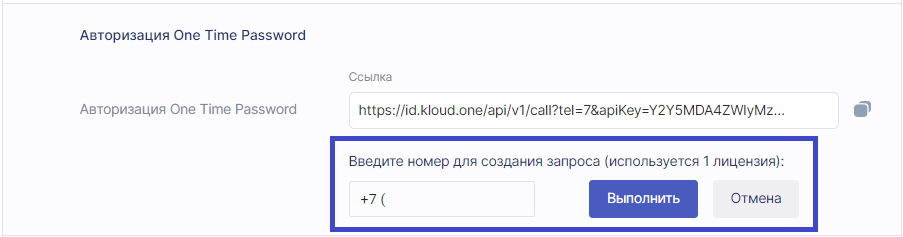
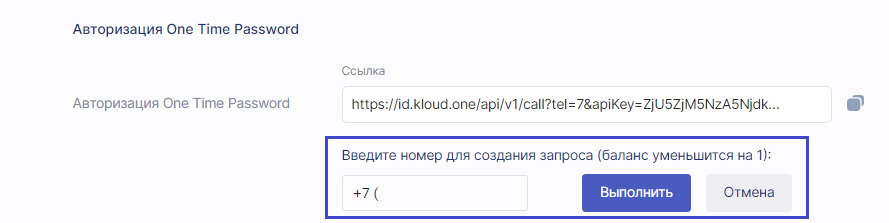
desc

diff --git a/content/03-ver.1.8/3-work_with_product_calling/08-settings_apps_od.md b/content/03-ver.1.8/3-work_with_product_calling/08-settings_apps_od.md
@@ -4,7 +4,7 @@ title: "Вкладка Настройки ОД в Личном кабинете"
 sort: "08"
 ---
 
-**Обзвон должников** или **ОД** является одним из модулей платформы Kloud.One, отвечающий за автоматическое информирование абонентов о задолженности перед организацией, а также рекомендации о ее погашении.
+**Обзвон должников** или **ОД** является одним из приложений платформы Kloud.One, отвечающий за автоматическое информирование абонентов о задолженности перед организацией, а также рекомендации о ее погашении.
 
 ![Картинка](./images_od/settings_ad_main.png "Модальное окно Настройки автообзвона по умолчанию")
 
@@ -20,8 +20,7 @@ sort: "08"
 ### Поле Часовой пояс
 
 Поле Часовой пояс отвечает за время начала автообзвона должников. При изменении часового пояса, время начала автообзвона ставится по тому часовому поясу, который выбран в настройках.  
-🛈 Параметр связан с **временем начала** автообзвона в модуле **ОД**.  
-🛈 После изменения этого параметра рекомендуем ненадолго ~1 минута включить и выключить модуль ОД.  
+🛈 Параметр связан с **временем начала** автообзвона в приложении **ОД**.  
 🛈 После регистрации нового клиента этот параметр по умолчанию равен **GMT+03.00 Москва**.
 
 ![Картинка](./images_od/settings_ad_time_zone.png "Поле Часовой пояс")
@@ -85,7 +84,7 @@ sort: "08"
 
 ### Выпадающий список Голос Автоответчика
 
-В модуле ОД имеется 5 голосов для автоответчика:  **Jane**, **Oksana**, **Omazh**, **Zahar**, **Ermil**.  
+В приложении ОД имеется 5 голосов для автоответчика:  **Jane**, **Oksana**, **Omazh**, **Zahar**, **Ermil**.  
 Голоса отличаются по полу, тембру и скорости произнесения речи.  
 🛈 По умолчанию стоит голос **oksana**. 
 
@@ -139,8 +138,8 @@ sort: "08"
 ### Кнопка Активировать
 
 При нажатии на кнопку **Активировать**, автообзвон должников запускается, используя параметры **Часовой пояс**, **Время начала**, **Повторных звонков**, **Прекратить автообзвон**, **Дата**, **Голос автоответчика**, **Месяцев задолженности**, **Сумма задолженности** и **Включить запись**.  
-🛈 При нулевой задолженности абонента и настройках **Сумма задолженности** абонент попадет в список на автообзвон.  
-🛈 При отсутствии данных модуль ОД не запустится.  
-🛈 При отсутствии абонентов, имеющих задолженность, появится модальное окно с ошибкой, модуль ОД не запустится.
+🛈 При нулевой задолженности абонента и настройках **Сумма задолженности** абонент попадет в список на обзвон.  
+🛈 При отсутствии данных обзвон не запустится.  
+🛈 При отсутствии абонентов, имеющих задолженность, появится модальное окно с ошибкой, обзвон не запустится.
 
 ![Картинка](./images_od/settings_ad_butt_enable.png "Кнопка Активировать")

diff --git a/content/03-ver.1.8/3-work_with_product_calling.md b/content/03-ver.1.8/3-work_with_product_calling.md
@@ -5,16 +5,16 @@ metaTitle: "KLOUD.ONE"
 metaDescription: "This is the meta description for this page"
 ---
 
-Приложение **«Обзвон должников»** (**ОД**) предназначено для своевременного информирования клиентов о необходимости внесения оплаты или погашения накопившейся задолженности. Преимуществами данного приложения являются круглосуточный режим работы, поддержка до 10 одновременных звонков, запись звонка, а также привязка телефонного номера абонента к его лицевому счету.
+Приложение **Обзвон должников** (**ОД**) предназначено для своевременного информирования клиентов о необходимости внесения оплаты или погашения накопившейся задолженности. Преимуществами данного приложения являются круглосуточный режим работы, поддержка до 10 одновременных звонков, запись звонка.
 
-Интерфейс приложения "Обзвон должников" представляет собой **Личный кабинет** пользователя, в который входит **Панель навигации** и таблицы с данными.
+Интерфейс приложения **Обзвон должников** представляет собой **Личный кабинет** пользователя, в который входит **Панель навигации** и таблицы с данными.
 
 Представляет собой веб-интерфейс, в котором пользователь  может:  
 - загружать и выгружать базы с данными о лицевых счетах;  
 - очистить базу данных лицевых счетов;  
-- отслеживать количество оставшихся минут по модулю ОД;  
+- отслеживать состояние баланса;  
 - настраивать правила обзвона должников;  
 - редактировать данные своей учетной записи (SIP-аккаунта, количества линий, изменение пароля);  
 - проверить работу SIP-соединения;  
 - отслеживать  количество звонков при автообзвоне за выбранные периоды;  
-- просматривать отчет потраченных минут за выбранные периоды по задачам ОД.  
+- просматривать отчет по расходам за выбранный период по задачам приложения ОД.

diff --git a/content/03-ver.1.8/3-work_with_product_calling/06-call_log_calling.md b/content/03-ver.1.8/3-work_with_product_calling/06-call_log_calling.md
@@ -29,8 +29,8 @@ sort: "06"
 
 ### Телефон
 
-В поле указывается номер телефона, с которого звонили.  
-Для сценария **Приема показаний** номер записывается в формате **7xxxxxxxxxx**.  
+В поле указывается номер телефона, на который звонили.  
+Для сценария **Обзвон должников** номер записывается в формате **7xxxxxxxxxx**.  
 🛈 При нажатии на надпись **Телефон** включается сортировка. Имеется дополнительное поле для поиска конкретного номера телефона.
 
 ![Картинка](./images_od/call_log_field_number.png "Поле Телефон")
@@ -72,7 +72,7 @@ sort: "06"
 
 В этом поле находится проигрыватель записи звонка.  
 В его функции входит:  
-1. Включение/выключение проигрывание записи.  
+1. Включение/выключение проигрывания записи.  
 2. Перемотка по временной шкале.  
 3. Увеличение/Уменьшение громкости.  
 4. Заглушить запись.  

diff --git a/content/03-ver.1.8/3-work_with_product_calling/07-common_settings_od.md b/content/03-ver.1.8/3-work_with_product_calling/07-common_settings_od.md
@@ -4,14 +4,9 @@ title: "Иконка Настройки в Личном кабинете ОД"
 sort: "07"
 ---
 
+После нажатия на иконку **Настройки** открывается модальное окно, в котором находятся настройки фраз сценария и параметры сценария этого приложения.
 
-
-
-
-Вкладка Настройки представляет собой выпадающий список модулей, который подключил клиент.
-🛈 После выбора одного из модулей открывается модальное окно, в котором находятся настройки фраз сценария и параметры сценария этого модуля.
-
-В модуле настройки **Обзвона должников** пользователь может:  
+В окне настройки **Обзвона должников** пользователь может:  
 
 - выбрать часовой пояс для правильного начала обзвона;  
 - выбирать время начала и прекращения обзвона;  

diff --git a/content/03-ver.1.8/4-work_with_product_shop/03-profile_shop.md b/content/03-ver.1.8/4-work_with_product_shop/03-profile_shop.md
@@ -77,9 +77,7 @@ sort: "03"
 
 ## Изменение имени пользователя:
 
-Поле **Изменение имени пользователя** предназначено для изменения имени пользователя, указанного при регистрации в сервисе Trusted.Plus.  
-🛈 Для отображения нового имени пользователя необходимо перезагрузить страницу. Имя пользователя в **Инфопанели** поменяется.  
-🛈 Данные в сервисе Trusted.Plus при этом не меняются! Имя меняется исключительно в приложении Kloud.One.  
+Поле **Изменение имени пользователя** предназначено для изменения имени пользователя, указанного при регистрации в сервисе Trusted.ID. Имя пользователя изменится только в приложениях ППС, ОД, ПЗ.
 
 ![Картинка](./images_shop/profile_name.png "Кнопка сохранения")
 

diff --git a/content/03-ver.1.8/3-work_with_product_calling/04-profile_od.md b/content/03-ver.1.8/3-work_with_product_calling/04-profile_od.md
@@ -77,9 +77,7 @@ sort: "04"
 
 ## Изменение имени пользователя:
 
-Поле **Изменение имени пользователя** предназначено для изменения имени пользователя, указанного при регистрации в сервисе Trusted.Plus.
-🛈 Для отображения нового имени пользователя необходимо перезагрузить страницу. Имя пользователя в **Инфопанели** поменяется.
-🛈 Данные в сервисе Trusted.Plus при этом не меняются! Имя меняется исключительно в приложении Kloud.One.
+Поле **Изменение имени пользователя** предназначено для изменения имени пользователя, указанного при регистрации в сервисе Trusted.ID. Имя пользователя изменится только в приложениях ППС, ОД, ПЗ.
 
 ![Картинка](./images_od/profile_name.png "Кнопка сохранения")
 

diff --git a/content/03-ver.1.8/3-work_with_product_calling/09-platform_apps_od.md b/content/03-ver.1.8/3-work_with_product_calling/09-platform_apps_od.md
@@ -11,8 +11,8 @@ sort: "09"
 
 Иконка для перехода в другие приложения платформы Kloud.One ( **Подтверждение заказов**, **Прием показаний**, **Идентификация по телефону**) расположена в правой верхней части личного кабинета.
 
-Иконка при нажатии на нее представляет собой выпадающий список модулей платформы Kloud.One.
+Иконка при нажатии на нее представляет собой выпадающий список приложений платформы Kloud.One.
 
 ![Картинка](./images_od/platform_apps_2.png "Иконка Переход к приложениям платформы Kloud.One в Личном кабинете")
 
-При выборе одного из модулей открывается личный кабинет выбранного приложения.
+При выборе одного из приложений открывается личный кабинет выбранного приложения.

diff --git a/content/03-ver.1.8/3-work_with_product_calling/03-infoboard_od.md b/content/03-ver.1.8/3-work_with_product_calling/03-infoboard_od.md
@@ -6,6 +6,6 @@ sort: "03"
 
 #### Инфопанель
 
-Раздел представляет собой панель, в которой отображаются: текущий остаток баланса по модулю **ОД** в лицензиях, а также наименование тарифа и имя пользователя. Помимо этого, в инфопанели можно перейти к разделам **Профиль** и **Детализация**.
+Раздел представляет собой панель, в которой отображаются: баланс и имя пользователя. Помимо этого, в инфопанели можно перейти к разделам **Профиль** и **Детализация**.
 
-![Картинка](./images_od/balance_keys_main.png "Инфопанель по модулю ОД")
+![Картинка](./images_od/balance_keys_main.png "Инфопанель по приложению ОД")

diff --git a/content/03-ver.1.8/2-work_with_product_meters/04-profile.md b/content/03-ver.1.8/2-work_with_product_meters/04-profile.md
@@ -72,8 +72,7 @@ sort: "04"
 
 ## Изменение имени пользователя:
 
-Поле **Изменение имени пользователя** предназначено для изменения имени пользователя, указанного при регистрации в сервисе trusted.plus.
-🛈 Для отображения нового имени пользователя необходимо перезагрузить страницу. Имя пользователя в **Инфопанели** поменяется.
+Поле **Изменение имени пользователя** предназначено для изменения имени пользователя, указанного при регистрации в сервисе Trusted.ID. Имя пользователя изменится только в приложениях ППС, ОД, ПЗ.
 
 ![Картинка](./images/profile_name.png "Кнопка сохранения")
 

diff --git a/content/03-ver.1.8/5-work_with_product_id/03-tab_apps_id.md b/content/03-ver.1.8/5-work_with_product_id/03-tab_apps_id.md
@@ -17,7 +17,7 @@ sort: "03"
 ## Блок Баланс
 
 В блоке **Баланс** можно:
-- увидеть баланс (единица баланса - один входящий звонок с кодом);  
+- увидеть баланс (единица баланса - один исходящий звонок с кодом);  
 - активировать приобретенный лицензионный ключ (пробную или коммерческую лицензию);  
 - перейти по ссылке, чтобы купить лицензионный ключ (ссылка ведет на сайт Kloud.One https://kloud.one/id/). В блоке представлены все виды коммерческих лицензий для сравнения и выбора наиболее подходящей). Также на сайте есть возможность заказать тестовую лицензию.
 

diff --git a/content/03-ver.1.8/5-work_with_product_id/04-tab_call_log_id.md b/content/03-ver.1.8/5-work_with_product_id/04-tab_call_log_id.md
@@ -12,7 +12,7 @@ sort: "04"
 
 Подраздел **Журнал** включает в себя виджет фильтрации приложений, виджет выбора отчетного периода по датам, и поиск номера. Ниже располагается таблица **Журнал**, включающая в себя столбцы **Дата**, **Сервисный номер**, **Телефон**, **Статус**.
 
-#### Виджет Сортировки приложений
+#### Виджет Фильтрации приложений
 
 Виджет фильтрации приложений позволяет выбрать приложение, отчетность по которому будет представлена в таблице.
 
